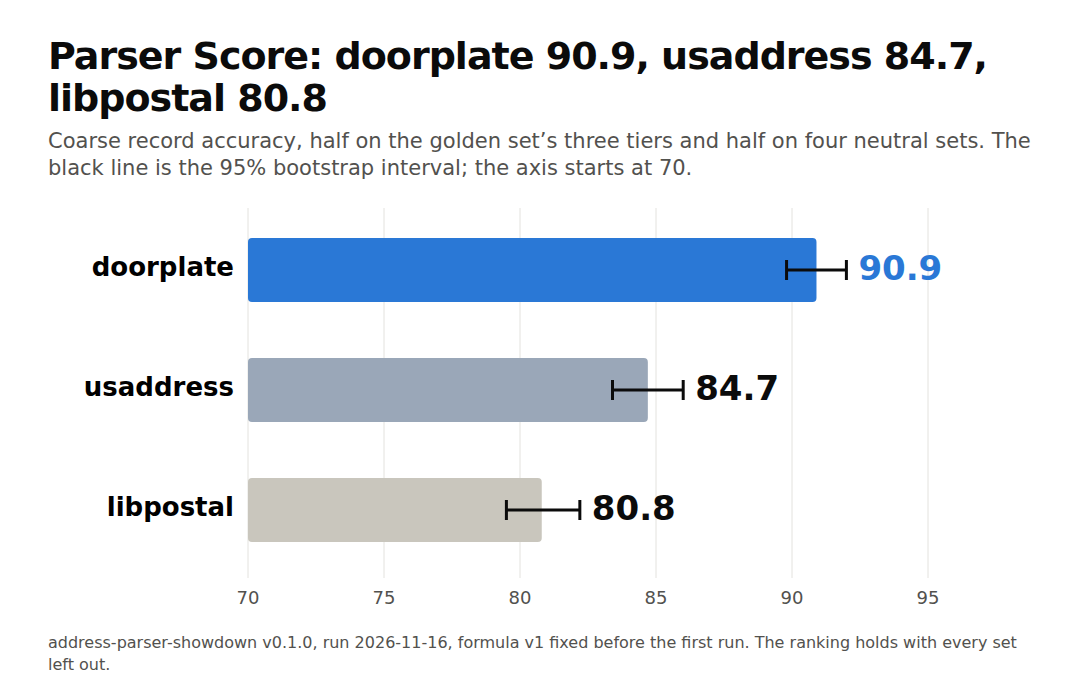
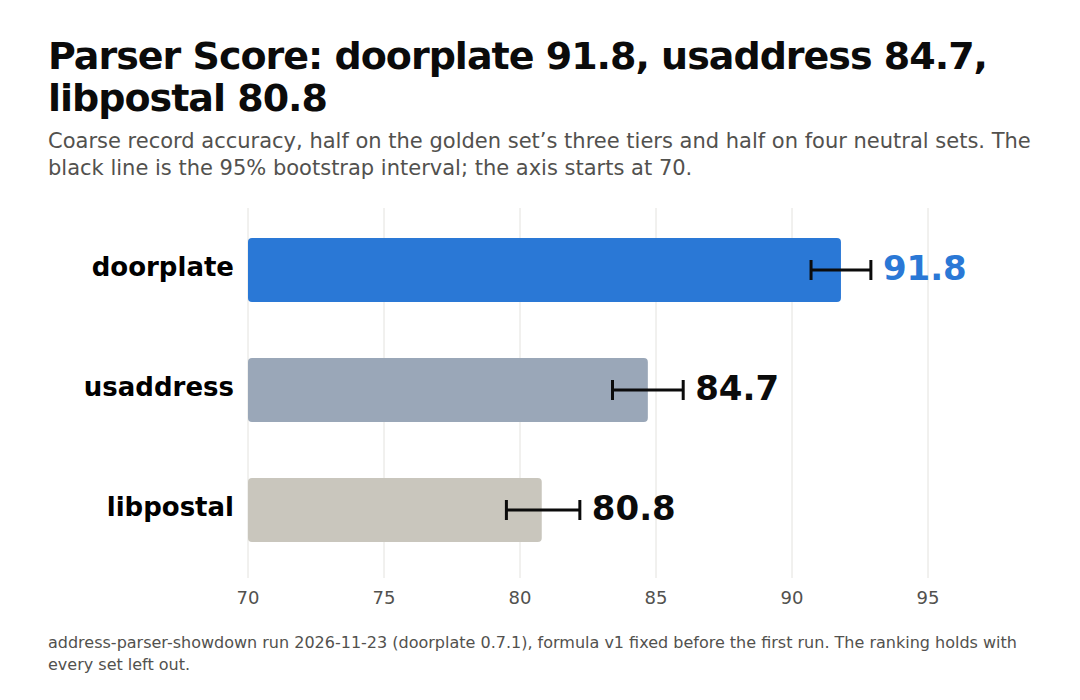
Showdown graphics: figures from the 2026-11-23 run, and a release history chart
Score, parts and speed graphics now use the second pinned run (doorplate
0.7.1). New history graphic: Parser Score and speed per release from
address-parser-showdown runs/doorplate-releases. make.py copies to
site/assets only with --assets, so the published post keeps its images.

diff --git a/site/_social/showdown/parts.html b/site/_social/showdown/parts.html
@@ -8,5 +8,5 @@ h1{font-size:38px;font-weight:800;letter-spacing:-1px;line-height:1.1}
 .leg{display:flex;gap:22px;font-size:19px;margin-bottom:10px}.leg i{display:inline-block;width:16px;height:16px;border-radius:3px;margin-right:7px;vertical-align:-2px}
 text{font-family:"DejaVu Sans","Helvetica Neue",Arial,sans-serif}body{width:1080px;height:1004px}</style></head>
 <body>
-<h1>Record accuracy on every scored part</h1><div class="sub">A record is right when every field the gold has matches in span and label. Every set that goes into the score is shown, nothing left out.</div><div class="leg"><span><i style="background:#2a78d6"></i>doorplate</span><span><i style="background:#9aa7b8"></i>usaddress</span><span><i style="background:#c9c6bd"></i>libpostal</span></div><svg width="984" height="824" xmlns="http://www.w3.org/2000/svg"><line x1="320.0" x2="320.0" y1="0" y2="794" stroke="#e3e2de"/><text x="320.0" y="816" text-anchor="middle" font-size="16" fill="#52514e">0%</text><line x1="465.0" x2="465.0" y1="0" y2="794" stroke="#e3e2de"/><text x="465.0" y="816" text-anchor="middle" font-size="16" fill="#52514e">25%</text><line x1="610.0" x2="610.0" y1="0" y2="794" stroke="#e3e2de"/><text x="610.0" y="816" text-anchor="middle" font-size="16" fill="#52514e">50%</text><line x1="755.0" x2="755.0" y1="0" y2="794" stroke="#e3e2de"/><text x="755.0" y="816" text-anchor="middle" font-size="16" fill="#52514e">75%</text><line x1="900.0" x2="900.0" y1="0" y2="794" stroke="#e3e2de"/><text x="900.0" y="816" text-anchor="middle" font-size="16" fill="#52514e">100%</text><text x="308" y="58" text-anchor="end" font-size="19" font-weight="700">Golden: normal (1,568)</text><rect x="320" y="8" width="551.0" height="26" rx="3" fill="#2a78d6"/><text x="879.0" y="28" font-size="17" font-weight="800">95.0</text><rect x="320" y="38" width="542.88" height="26" rx="3" fill="#9aa7b8"/><text x="870.88" y="58" font-size="17" font-weight="500">93.6</text><rect x="320" y="68" width="532.4399999999999" height="26" rx="3" fill="#c9c6bd"/><text x="860.4399999999999" y="88" font-size="17" font-weight="500">91.8</text><text x="308" y="170" text-anchor="end" font-size="19" font-weight="700">Golden: hard (556)</text><rect x="320" y="120" width="528.96" height="26" rx="3" fill="#2a78d6"/><text x="856.96" y="140" font-size="17" font-weight="800">91.2</text><rect x="320" y="150" width="513.3" height="26" rx="3" fill="#9aa7b8"/><text x="841.3" y="170" font-size="17" font-weight="500">88.5</text><rect x="320" y="180" width="411.22" height="26" rx="3" fill="#c9c6bd"/><text x="739.22" y="200" font-size="17" font-weight="500">70.9</text><text x="308" y="282" text-anchor="end" font-size="19" font-weight="700">Golden: nightmare (226)</text><rect x="320" y="232" width="400.20000000000005" height="26" rx="3" fill="#2a78d6"/><text x="728.2" y="252" font-size="17" font-weight="800">69.0</text><rect x="320" y="262" width="297.53999999999996" height="26" rx="3" fill="#9aa7b8"/><text x="625.54" y="282" font-size="17" font-weight="500">51.3</text><rect x="320" y="292" width="313.20000000000005" height="26" rx="3" fill="#c9c6bd"/><text x="641.2" y="312" font-size="17" font-weight="500">54.0</text><text x="308" y="394" text-anchor="end" font-size="19" font-weight="700">Suite: natural (16,001)</text><rect x="320" y="344" width="571.88" height="26" rx="3" fill="#2a78d6"/><text x="899.88" y="364" font-size="17" font-weight="800">98.6</text><rect x="320" y="374" width="559.6999999999999" height="26" rx="3" fill="#9aa7b8"/><text x="887.6999999999999" y="394" font-size="17" font-weight="500">96.5</text><rect x="320" y="404" width="551.0" height="26" rx="3" fill="#c9c6bd"/><text x="879.0" y="424" font-size="17" font-weight="500">95.0</text><text x="308" y="506" text-anchor="end" font-size="19" font-weight="700">Suite: hand (1,000)</text><rect x="320" y="456" width="555.64" height="26" rx="3" fill="#2a78d6"/><text x="883.64" y="476" font-size="17" font-weight="800">95.8</text><rect x="320" y="486" width="528.38" height="26" rx="3" fill="#9aa7b8"/><text x="856.38" y="506" font-size="17" font-weight="500">91.1</text><rect x="320" y="516" width="487.20000000000005" height="26" rx="3" fill="#c9c6bd"/><text x="815.2" y="536" font-size="17" font-weight="500">84.0</text><text x="308" y="618" text-anchor="end" font-size="19" font-weight="700">Senzing US: osm (2,172)</text><rect x="320" y="568" width="568.98" height="26" rx="3" fill="#2a78d6"/><text x="896.98" y="588" font-size="17" font-weight="800">98.1</text><rect x="320" y="598" width="525.4799999999999" height="26" rx="3" fill="#9aa7b8"/><text x="853.4799999999999" y="618" font-size="17" font-weight="500">90.6</text><rect x="320" y="628" width="573.04" height="26" rx="3" fill="#c9c6bd"/><text x="901.04" y="648" font-size="17" font-weight="500">98.8</text><text x="308" y="730" text-anchor="end" font-size="19" font-weight="700">Geocode dev (60,522)</text><rect x="320" y="680" width="547.52" height="26" rx="3" fill="#2a78d6"/><text x="875.52" y="700" font-size="17" font-weight="800">94.4</text><rect x="320" y="710" width="512.72" height="26" rx="3" fill="#9aa7b8"/><text x="840.72" y="730" font-size="17" font-weight="500">88.4</text><rect x="320" y="740" width="463.4200000000001" height="26" rx="3" fill="#c9c6bd"/><text x="791.4200000000001" y="760" font-size="17" font-weight="500">79.9</text></svg>
+<h1>Record accuracy on every scored part</h1><div class="sub">A record is right when every field the gold has matches in span and label. Every set that goes into the score is shown, nothing left out.</div><div class="leg"><span><i style="background:#2a78d6"></i>doorplate</span><span><i style="background:#9aa7b8"></i>usaddress</span><span><i style="background:#c9c6bd"></i>libpostal</span></div><svg width="984" height="824" xmlns="http://www.w3.org/2000/svg"><line x1="320.0" x2="320.0" y1="0" y2="794" stroke="#e3e2de"/><text x="320.0" y="816" text-anchor="middle" font-size="16" fill="#52514e">0%</text><line x1="465.0" x2="465.0" y1="0" y2="794" stroke="#e3e2de"/><text x="465.0" y="816" text-anchor="middle" font-size="16" fill="#52514e">25%</text><line x1="610.0" x2="610.0" y1="0" y2="794" stroke="#e3e2de"/><text x="610.0" y="816" text-anchor="middle" font-size="16" fill="#52514e">50%</text><line x1="755.0" x2="755.0" y1="0" y2="794" stroke="#e3e2de"/><text x="755.0" y="816" text-anchor="middle" font-size="16" fill="#52514e">75%</text><line x1="900.0" x2="900.0" y1="0" y2="794" stroke="#e3e2de"/><text x="900.0" y="816" text-anchor="middle" font-size="16" fill="#52514e">100%</text><text x="308" y="58" text-anchor="end" font-size="19" font-weight="700">Golden: normal (1,568)</text><rect x="320" y="8" width="550.4200000000001" height="26" rx="3" fill="#2a78d6"/><text x="878.4200000000001" y="28" font-size="17" font-weight="800">94.9</text><rect x="320" y="38" width="542.88" height="26" rx="3" fill="#9aa7b8"/><text x="870.88" y="58" font-size="17" font-weight="500">93.6</text><rect x="320" y="68" width="532.4399999999999" height="26" rx="3" fill="#c9c6bd"/><text x="860.4399999999999" y="88" font-size="17" font-weight="500">91.8</text><text x="308" y="170" text-anchor="end" font-size="19" font-weight="700">Golden: hard (556)</text><rect x="320" y="120" width="535.9200000000001" height="26" rx="3" fill="#2a78d6"/><text x="863.9200000000001" y="140" font-size="17" font-weight="800">92.4</text><rect x="320" y="150" width="513.3" height="26" rx="3" fill="#9aa7b8"/><text x="841.3" y="170" font-size="17" font-weight="500">88.5</text><rect x="320" y="180" width="411.22" height="26" rx="3" fill="#c9c6bd"/><text x="739.22" y="200" font-size="17" font-weight="500">70.9</text><text x="308" y="282" text-anchor="end" font-size="19" font-weight="700">Golden: nightmare (226)</text><rect x="320" y="232" width="423.4" height="26" rx="3" fill="#2a78d6"/><text x="751.4" y="252" font-size="17" font-weight="800">73.0</text><rect x="320" y="262" width="297.53999999999996" height="26" rx="3" fill="#9aa7b8"/><text x="625.54" y="282" font-size="17" font-weight="500">51.3</text><rect x="320" y="292" width="313.20000000000005" height="26" rx="3" fill="#c9c6bd"/><text x="641.2" y="312" font-size="17" font-weight="500">54.0</text><text x="308" y="394" text-anchor="end" font-size="19" font-weight="700">Suite: natural (16,001)</text><rect x="320" y="344" width="571.88" height="26" rx="3" fill="#2a78d6"/><text x="899.88" y="364" font-size="17" font-weight="800">98.6</text><rect x="320" y="374" width="559.6999999999999" height="26" rx="3" fill="#9aa7b8"/><text x="887.6999999999999" y="394" font-size="17" font-weight="500">96.5</text><rect x="320" y="404" width="551.0" height="26" rx="3" fill="#c9c6bd"/><text x="879.0" y="424" font-size="17" font-weight="500">95.0</text><text x="308" y="506" text-anchor="end" font-size="19" font-weight="700">Suite: hand (1,000)</text><rect x="320" y="456" width="558.54" height="26" rx="3" fill="#2a78d6"/><text x="886.54" y="476" font-size="17" font-weight="800">96.3</text><rect x="320" y="486" width="528.38" height="26" rx="3" fill="#9aa7b8"/><text x="856.38" y="506" font-size="17" font-weight="500">91.1</text><rect x="320" y="516" width="487.20000000000005" height="26" rx="3" fill="#c9c6bd"/><text x="815.2" y="536" font-size="17" font-weight="500">84.0</text><text x="308" y="618" text-anchor="end" font-size="19" font-weight="700">Senzing US: osm (2,172)</text><rect x="320" y="568" width="568.98" height="26" rx="3" fill="#2a78d6"/><text x="896.98" y="588" font-size="17" font-weight="800">98.1</text><rect x="320" y="598" width="525.4799999999999" height="26" rx="3" fill="#9aa7b8"/><text x="853.4799999999999" y="618" font-size="17" font-weight="500">90.6</text><rect x="320" y="628" width="573.04" height="26" rx="3" fill="#c9c6bd"/><text x="901.04" y="648" font-size="17" font-weight="500">98.8</text><text x="308" y="730" text-anchor="end" font-size="19" font-weight="700">Geocode dev (60,522)</text><rect x="320" y="680" width="547.52" height="26" rx="3" fill="#2a78d6"/><text x="875.52" y="700" font-size="17" font-weight="800">94.4</text><rect x="320" y="710" width="512.72" height="26" rx="3" fill="#9aa7b8"/><text x="840.72" y="730" font-size="17" font-weight="500">88.4</text><rect x="320" y="740" width="463.4200000000001" height="26" rx="3" fill="#c9c6bd"/><text x="791.4200000000001" y="760" font-size="17" font-weight="500">79.9</text></svg>
 </body></html>

diff --git a/site/_social/showdown/speed.html b/site/_social/showdown/speed.html
@@ -8,5 +8,5 @@ h1{font-size:38px;font-weight:800;letter-spacing:-1px;line-height:1.1}
 .leg{display:flex;gap:22px;font-size:19px;margin-bottom:10px}.leg i{display:inline-block;width:16px;height:16px;border-radius:3px;margin-right:7px;vertical-align:-2px}
 text{font-family:"DejaVu Sans","Helvetica Neue",Arial,sans-serif}body{width:1080px;height:560px}</style></head>
 <body>
-<h1>Five to eight times faster, in 27 MB</h1><div class="sub">100,000 strings, median of 5 passes, i9-9900K under WSL2. Speed is never part of the Parser Score.</div><div style="display:flex;gap:12px"><svg width="320" height="330" xmlns="http://www.w3.org/2000/svg"><text x="0" y="22" font-size="17" font-weight="700">Strings per second (1 process)</text><rect x="14" y="70.0" width="84" height="224.0" rx="4" fill="#2a78d6"/><text x="56" y="62.0" text-anchor="middle" font-size="18" font-weight="800">72,028</text><text x="56" y="318" text-anchor="middle" font-size="15" fill="#52514e">doorplate</text><rect x="114" y="266.16015993780195" width="84" height="27.839840062198036" rx="4" fill="#9aa7b8"/><text x="156" y="258.16015993780195" text-anchor="middle" font-size="18" font-weight="800">8,952</text><text x="156" y="318" text-anchor="middle" font-size="15" fill="#52514e">usaddress</text><rect x="214" y="248.6669628477814" width="84" height="45.33303715221858" rx="4" fill="#c9c6bd"/><text x="256" y="240.6669628477814" text-anchor="middle" font-size="18" font-weight="800">14,577</text><text x="256" y="318" text-anchor="middle" font-size="15" fill="#52514e">libpostal</text></svg><svg width="320" height="330" xmlns="http://www.w3.org/2000/svg"><text x="0" y="22" font-size="17" font-weight="700">Memory after loading (MB)</text><rect x="14" y="291.9553752535497" width="84" height="2.0446247464503045" rx="4" fill="#2a78d6"/><text x="56" y="283.9553752535497" text-anchor="middle" font-size="18" font-weight="800">27</text><text x="56" y="318" text-anchor="middle" font-size="15" fill="#52514e">doorplate</text><rect x="114" y="291.9553752535497" width="84" height="2.0446247464503045" rx="4" fill="#9aa7b8"/><text x="156" y="283.9553752535497" text-anchor="middle" font-size="18" font-weight="800">27</text><text x="156" y="318" text-anchor="middle" font-size="15" fill="#52514e">usaddress</text><rect x="214" y="70.0" width="84" height="224.0" rx="4" fill="#c9c6bd"/><text x="256" y="62.0" text-anchor="middle" font-size="18" font-weight="800">2,958</text><text x="256" y="318" text-anchor="middle" font-size="15" fill="#52514e">libpostal</text></svg><svg width="320" height="330" xmlns="http://www.w3.org/2000/svg"><text x="0" y="22" font-size="17" font-weight="700">Install size (MB)</text><rect x="14" y="292" width="84" height="2" rx="4" fill="#2a78d6"/><text x="56" y="284" text-anchor="middle" font-size="18" font-weight="800">4.9</text><text x="56" y="318" text-anchor="middle" font-size="15" fill="#52514e">doorplate</text><rect x="114" y="292" width="84" height="2" rx="4" fill="#9aa7b8"/><text x="156" y="284" text-anchor="middle" font-size="18" font-weight="800">4.8</text><text x="156" y="318" text-anchor="middle" font-size="15" fill="#52514e">usaddress</text><rect x="214" y="69.99999999999997" width="84" height="224.00000000000003" rx="4" fill="#c9c6bd"/><text x="256" y="61.99999999999997" text-anchor="middle" font-size="18" font-weight="800">2,993.1</text><text x="256" y="318" text-anchor="middle" font-size="15" fill="#52514e">libpostal</text></svg></div><div class="foot">With 4 processes: 223,510 / 28,054 / 43,951 strings per second. Load time: 0.003 s / 0.012 s / 3.48 s.</div>
+<h1>Seven to thirteen times faster, in 25 MB</h1><div class="sub">100,000 strings, median of 5 passes, i9-9900K under WSL2. Speed is never part of the Parser Score.</div><div style="display:flex;gap:12px"><svg width="320" height="330" xmlns="http://www.w3.org/2000/svg"><text x="0" y="22" font-size="17" font-weight="700">Strings per second (1 process)</text><rect x="14" y="70.0" width="84" height="224.0" rx="4" fill="#2a78d6"/><text x="56" y="62.0" text-anchor="middle" font-size="18" font-weight="800">116,534</text><text x="56" y="318" text-anchor="middle" font-size="15" fill="#52514e">doorplate</text><rect x="114" y="276.80220364872054" width="84" height="17.197796351279454" rx="4" fill="#9aa7b8"/><text x="156" y="268.80220364872054" text-anchor="middle" font-size="18" font-weight="800">8,947</text><text x="156" y="318" text-anchor="middle" font-size="15" fill="#52514e">usaddress</text><rect x="214" y="264.08117802529733" width="84" height="29.918821974702663" rx="4" fill="#c9c6bd"/><text x="256" y="256.08117802529733" text-anchor="middle" font-size="18" font-weight="800">15,565</text><text x="256" y="318" text-anchor="middle" font-size="15" fill="#52514e">libpostal</text></svg><svg width="320" height="330" xmlns="http://www.w3.org/2000/svg"><text x="0" y="22" font-size="17" font-weight="700">Memory after loading (MB)</text><rect x="14" y="292" width="84" height="2" rx="4" fill="#2a78d6"/><text x="56" y="284" text-anchor="middle" font-size="18" font-weight="800">25</text><text x="56" y="318" text-anchor="middle" font-size="15" fill="#52514e">doorplate</text><rect x="114" y="291.9553752535497" width="84" height="2.0446247464503045" rx="4" fill="#9aa7b8"/><text x="156" y="283.9553752535497" text-anchor="middle" font-size="18" font-weight="800">27</text><text x="156" y="318" text-anchor="middle" font-size="15" fill="#52514e">usaddress</text><rect x="214" y="70.0" width="84" height="224.0" rx="4" fill="#c9c6bd"/><text x="256" y="62.0" text-anchor="middle" font-size="18" font-weight="800">2,958</text><text x="256" y="318" text-anchor="middle" font-size="15" fill="#52514e">libpostal</text></svg><svg width="320" height="330" xmlns="http://www.w3.org/2000/svg"><text x="0" y="22" font-size="17" font-weight="700">Install size (MB)</text><rect x="14" y="292" width="84" height="2" rx="4" fill="#2a78d6"/><text x="56" y="284" text-anchor="middle" font-size="18" font-weight="800">6.5</text><text x="56" y="318" text-anchor="middle" font-size="15" fill="#52514e">doorplate</text><rect x="114" y="292" width="84" height="2" rx="4" fill="#9aa7b8"/><text x="156" y="284" text-anchor="middle" font-size="18" font-weight="800">4.8</text><text x="156" y="318" text-anchor="middle" font-size="15" fill="#52514e">usaddress</text><rect x="214" y="69.99999999999997" width="84" height="224.00000000000003" rx="4" fill="#c9c6bd"/><text x="256" y="61.99999999999997" text-anchor="middle" font-size="18" font-weight="800">2,993.1</text><text x="256" y="318" text-anchor="middle" font-size="15" fill="#52514e">libpostal</text></svg></div><div class="foot">With 4 processes: 360,696 / 27,999 / 45,837 strings per second. Load time: 0.001 s / 0.011 s / 4.325 s.</div>
 </body></html>

diff --git a/site/_social/showdown/score.html b/site/_social/showdown/score.html
@@ -8,5 +8,5 @@ h1{font-size:38px;font-weight:800;letter-spacing:-1px;line-height:1.1}
 .leg{display:flex;gap:22px;font-size:19px;margin-bottom:10px}.leg i{display:inline-block;width:16px;height:16px;border-radius:3px;margin-right:7px;vertical-align:-2px}
 text{font-family:"DejaVu Sans","Helvetica Neue",Arial,sans-serif}body{width:1080px;height:700px}</style></head>
 <body>
-<h1>Parser Score: doorplate 90.9, usaddress 84.7, libpostal 80.8</h1><div class="sub">Coarse record accuracy, half on the golden set&rsquo;s three tiers and half on four neutral sets. The black line is the 95% bootstrap interval; the axis starts at 70.</div><svg width="984" height="420" xmlns="http://www.w3.org/2000/svg"><line x1="200.0" x2="200.0" y1="10" y2="380" stroke="#e3e2de"/><text x="200.0" y="406" text-anchor="middle" font-size="18" fill="#52514e">70</text><line x1="336.0" x2="336.0" y1="10" y2="380" stroke="#e3e2de"/><text x="336.0" y="406" text-anchor="middle" font-size="18" fill="#52514e">75</text><line x1="472.0" x2="472.0" y1="10" y2="380" stroke="#e3e2de"/><text x="472.0" y="406" text-anchor="middle" font-size="18" fill="#52514e">80</text><line x1="608.0" x2="608.0" y1="10" y2="380" stroke="#e3e2de"/><text x="608.0" y="406" text-anchor="middle" font-size="18" fill="#52514e">85</text><line x1="744.0" x2="744.0" y1="10" y2="380" stroke="#e3e2de"/><text x="744.0" y="406" text-anchor="middle" font-size="18" fill="#52514e">90</text><line x1="880.0" x2="880.0" y1="10" y2="380" stroke="#e3e2de"/><text x="880.0" y="406" text-anchor="middle" font-size="18" fill="#52514e">95</text><text x="186" y="78" text-anchor="end" font-size="26" font-weight="700">doorplate</text><rect x="200" y="40" width="568.4800000000001" height="64" rx="4" fill="#2a78d6"/><line x1="738.56" x2="798.4" y1="72" y2="72" stroke="#0b0b0b" stroke-width="3"/><line x1="738.56" x2="738.56" y1="62" y2="82" stroke="#0b0b0b" stroke-width="3"/><line x1="798.4" x2="798.4" y1="62" y2="82" stroke="#0b0b0b" stroke-width="3"/><text x="810.4" y="82" font-size="34" font-weight="800" fill="#2a78d6">90.9</text><text x="186" y="198" text-anchor="end" font-size="26" font-weight="700">usaddress</text><rect x="200" y="160" width="399.84000000000003" height="64" rx="4" fill="#9aa7b8"/><line x1="564.4800000000002" x2="635.2" y1="192" y2="192" stroke="#0b0b0b" stroke-width="3"/><line x1="564.4800000000002" x2="564.4800000000002" y1="182" y2="202" stroke="#0b0b0b" stroke-width="3"/><line x1="635.2" x2="635.2" y1="182" y2="202" stroke="#0b0b0b" stroke-width="3"/><text x="647.2" y="202" font-size="34" font-weight="800" fill="#0b0b0b">84.7</text><text x="186" y="318" text-anchor="end" font-size="26" font-weight="700">libpostal</text><rect x="200" y="280" width="293.75999999999993" height="64" rx="4" fill="#c9c6bd"/><line x1="458.4" x2="531.8400000000001" y1="312" y2="312" stroke="#0b0b0b" stroke-width="3"/><line x1="458.4" x2="458.4" y1="302" y2="322" stroke="#0b0b0b" stroke-width="3"/><line x1="531.8400000000001" x2="531.8400000000001" y1="302" y2="322" stroke="#0b0b0b" stroke-width="3"/><text x="543.8400000000001" y="322" font-size="34" font-weight="800" fill="#0b0b0b">80.8</text></svg><div class="foot">address-parser-showdown v0.1.0, run 2026-11-16, formula v1 fixed before the first run. The ranking holds with every set left out.</div>
+<h1>Parser Score: doorplate 91.8, usaddress 84.7, libpostal 80.8</h1><div class="sub">Coarse record accuracy, half on the golden set&rsquo;s three tiers and half on four neutral sets. The black line is the 95% bootstrap interval; the axis starts at 70.</div><svg width="984" height="420" xmlns="http://www.w3.org/2000/svg"><line x1="200.0" x2="200.0" y1="10" y2="380" stroke="#e3e2de"/><text x="200.0" y="406" text-anchor="middle" font-size="18" fill="#52514e">70</text><line x1="336.0" x2="336.0" y1="10" y2="380" stroke="#e3e2de"/><text x="336.0" y="406" text-anchor="middle" font-size="18" fill="#52514e">75</text><line x1="472.0" x2="472.0" y1="10" y2="380" stroke="#e3e2de"/><text x="472.0" y="406" text-anchor="middle" font-size="18" fill="#52514e">80</text><line x1="608.0" x2="608.0" y1="10" y2="380" stroke="#e3e2de"/><text x="608.0" y="406" text-anchor="middle" font-size="18" fill="#52514e">85</text><line x1="744.0" x2="744.0" y1="10" y2="380" stroke="#e3e2de"/><text x="744.0" y="406" text-anchor="middle" font-size="18" fill="#52514e">90</text><line x1="880.0" x2="880.0" y1="10" y2="380" stroke="#e3e2de"/><text x="880.0" y="406" text-anchor="middle" font-size="18" fill="#52514e">95</text><text x="186" y="78" text-anchor="end" font-size="26" font-weight="700">doorplate</text><rect x="200" y="40" width="592.9599999999999" height="64" rx="4" fill="#2a78d6"/><line x1="763.0400000000001" x2="822.8800000000002" y1="72" y2="72" stroke="#0b0b0b" stroke-width="3"/><line x1="763.0400000000001" x2="763.0400000000001" y1="62" y2="82" stroke="#0b0b0b" stroke-width="3"/><line x1="822.8800000000002" x2="822.8800000000002" y1="62" y2="82" stroke="#0b0b0b" stroke-width="3"/><text x="834.8800000000002" y="82" font-size="34" font-weight="800" fill="#2a78d6">91.8</text><text x="186" y="198" text-anchor="end" font-size="26" font-weight="700">usaddress</text><rect x="200" y="160" width="399.84000000000003" height="64" rx="4" fill="#9aa7b8"/><line x1="564.4800000000002" x2="635.2" y1="192" y2="192" stroke="#0b0b0b" stroke-width="3"/><line x1="564.4800000000002" x2="564.4800000000002" y1="182" y2="202" stroke="#0b0b0b" stroke-width="3"/><line x1="635.2" x2="635.2" y1="182" y2="202" stroke="#0b0b0b" stroke-width="3"/><text x="647.2" y="202" font-size="34" font-weight="800" fill="#0b0b0b">84.7</text><text x="186" y="318" text-anchor="end" font-size="26" font-weight="700">libpostal</text><rect x="200" y="280" width="293.75999999999993" height="64" rx="4" fill="#c9c6bd"/><line x1="458.4" x2="531.8400000000001" y1="312" y2="312" stroke="#0b0b0b" stroke-width="3"/><line x1="458.4" x2="458.4" y1="302" y2="322" stroke="#0b0b0b" stroke-width="3"/><line x1="531.8400000000001" x2="531.8400000000001" y1="302" y2="322" stroke="#0b0b0b" stroke-width="3"/><text x="543.8400000000001" y="322" font-size="34" font-weight="800" fill="#0b0b0b">80.8</text></svg><div class="foot">address-parser-showdown run 2026-11-23 (doorplate 0.7.1), formula v1 fixed before the first run. The ranking holds with every set left out.</div>
 </body></html>

diff --git a/site/_social/showdown/history.html b/site/_social/showdown/history.html
@@ -1,0 +1,12 @@
+<!doctype html>
+<html lang="en"><head><meta charset="utf-8"><title>doorplate releases</title>
+<style>/* Generated by make.py; edit the data there. */*{box-sizing:border-box;margin:0;padding:0}html,body{background:#fff}
+body{font-family:"DejaVu Sans","Helvetica Neue",Arial,sans-serif;color:#0b0b0b;overflow:hidden;padding:36px 48px 24px}
+h1{font-size:38px;font-weight:800;letter-spacing:-1px;line-height:1.1}
+.sub{font-size:21px;color:#52514e;margin:8px 0 16px;line-height:1.3}
+.foot{font-size:16px;color:#52514e;margin-top:10px;line-height:1.35}
+.leg{display:flex;gap:22px;font-size:19px;margin-bottom:10px}.leg i{display:inline-block;width:16px;height:16px;border-radius:3px;margin-right:7px;vertical-align:-2px}
+text{font-family:"DejaVu Sans","Helvetica Neue",Arial,sans-serif}body{width:1080px;height:720px}</style></head>
+<body>
+<h1>Accuracy and speed, release by release</h1><div class="sub">Parser Score rose from 87.3 to 91.8 and speed from 31,433 to 113,770 strings per second, 0.1.0 to 0.7.1.</div><div class="leg"><span><i style="background:#2a78d6"></i>Parser Score (left axis)</span><span><i style="background:#d9731a"></i>Strings per second, 1 process (right axis)</span></div><svg width="984" height="440" xmlns="http://www.w3.org/2000/svg"><line x1="90" x2="890" y1="380.0" y2="380.0" stroke="#e3e2de"/><text x="80" y="386.0" text-anchor="end" font-size="16" fill="#2a78d6">80</text><line x1="90" x2="890" y1="290.0" y2="290.0" stroke="#e3e2de"/><text x="80" y="296.0" text-anchor="end" font-size="16" fill="#2a78d6">85</text><line x1="90" x2="890" y1="200.0" y2="200.0" stroke="#e3e2de"/><text x="80" y="206.0" text-anchor="end" font-size="16" fill="#2a78d6">90</text><line x1="90" x2="890" y1="110.0" y2="110.0" stroke="#e3e2de"/><text x="80" y="116.0" text-anchor="end" font-size="16" fill="#2a78d6">95</text><line x1="90" x2="890" y1="20.0" y2="20.0" stroke="#e3e2de"/><text x="80" y="26.0" text-anchor="end" font-size="16" fill="#2a78d6">100</text><text x="904" y="386.0" font-size="16" fill="#d9731a">0k</text><text x="904" y="296.0" font-size="16" fill="#d9731a">30k</text><text x="904" y="206.0" font-size="16" fill="#d9731a">60k</text><text x="904" y="116.0" font-size="16" fill="#d9731a">90k</text><text x="904" y="26.0" font-size="16" fill="#d9731a">120k</text><text x="90.0" y="410" text-anchor="middle" font-size="18" fill="#52514e">0.1.0</text><text x="204.28571428571428" y="410" text-anchor="middle" font-size="18" fill="#52514e">0.2.0</text><text x="318.57142857142856" y="410" text-anchor="middle" font-size="18" fill="#52514e">0.3.1</text><text x="432.85714285714283" y="410" text-anchor="middle" font-size="18" fill="#52514e">0.4.1</text><text x="547.1428571428571" y="410" text-anchor="middle" font-size="18" fill="#52514e">0.5.1</text><text x="661.4285714285714" y="410" text-anchor="middle" font-size="18" fill="#52514e">0.6.2</text><text x="775.7142857142857" y="410" text-anchor="middle" font-size="18" fill="#52514e">0.7.0</text><text x="890.0" y="410" text-anchor="middle" font-size="18" fill="#52514e">0.7.1</text><polyline points="90.0,248.60000000000005 204.28571428571428,248.60000000000005 318.57142857142856,243.2000000000001 432.85714285714283,223.39999999999995 547.1428571428571,210.7999999999999 661.4285714285714,183.7999999999999 775.7142857142857,167.60000000000005 890.0,167.60000000000005" fill="none" stroke="#2a78d6" stroke-width="5" stroke-linejoin="round"/><circle cx="90.0" cy="248.60000000000005" r="6" fill="#2a78d6"/><circle cx="204.28571428571428" cy="248.60000000000005" r="6" fill="#2a78d6"/><circle cx="318.57142857142856" cy="243.2000000000001" r="6" fill="#2a78d6"/><circle cx="432.85714285714283" cy="223.39999999999995" r="6" fill="#2a78d6"/><circle cx="547.1428571428571" cy="210.7999999999999" r="6" fill="#2a78d6"/><circle cx="661.4285714285714" cy="183.7999999999999" r="6" fill="#2a78d6"/><circle cx="775.7142857142857" cy="167.60000000000005" r="6" fill="#2a78d6"/><circle cx="890.0" cy="167.60000000000005" r="6" fill="#2a78d6"/><polyline points="90.0,285.701 204.28571428571428,260.79200000000003 318.57142857142856,262.175 432.85714285714283,256.571 547.1428571428571,158.168 661.4285714285714,40.05500000000001 775.7142857142857,62.50100000000003 890.0,38.69" fill="none" stroke="#d9731a" stroke-width="5" stroke-linejoin="round"/><circle cx="90.0" cy="285.701" r="6" fill="#d9731a"/><circle cx="204.28571428571428" cy="260.79200000000003" r="6" fill="#d9731a"/><circle cx="318.57142857142856" cy="262.175" r="6" fill="#d9731a"/><circle cx="432.85714285714283" cy="256.571" r="6" fill="#d9731a"/><circle cx="547.1428571428571" cy="158.168" r="6" fill="#d9731a"/><circle cx="661.4285714285714" cy="40.05500000000001" r="6" fill="#d9731a"/><circle cx="775.7142857142857" cy="62.50100000000003" r="6" fill="#d9731a"/><circle cx="890.0" cy="38.69" r="6" fill="#d9731a"/><text x="124.0" y="232.60000000000005" text-anchor="middle" font-size="19" font-weight="800" fill="#2a78d6">87.3</text><text x="856.0" y="203.60000000000005" text-anchor="middle" font-size="19" font-weight="800" fill="#2a78d6">91.8</text><text x="130.0" y="319.701" text-anchor="middle" font-size="19" font-weight="800" fill="#d9731a">31,433</text><text x="850.0" y="20.689999999999998" text-anchor="middle" font-size="19" font-weight="800" fill="#d9731a">113,770</text></svg><div class="foot">Every release scored on the same gold and sets (2026-11-16); usaddress scores 84.7 and libpostal 80.8. Speed: one process, i9-9900K under WSL2; it varies 5 to 14% between runs. Source: address-parser-showdown, runs/doorplate-releases.</div>
+</body></html>

diff --git a/site/_social/showdown/make.py b/site/_social/showdown/make.py
@@ -3,10 +3,11 @@
     score.html  -> score.png   1080 x 760   Parser Score with 95% intervals (site/assets/showdown-score.png)
     parts.html  -> parts.png   1080 x 900   record accuracy per part          (site/assets/showdown-parts.png)
     speed.html  -> speed.png   1080 x 560   speed, memory, install size       (site/assets/showdown-speed.png)
+    history.html -> history.png 1080 x 720  Parser Score and speed by doorplate release (runs/doorplate-releases/releases.md)
 
-Every figure is copied from report/REPORT.md of address-parser-showdown (v0.1.0, run 2026-11-16, sections 7.2, 7.3, 8).
+Every figure is copied from report/REPORT.md of address-parser-showdown (run 2026-11-23, doorplate 0.7.1, sections 7.2, 7.3, 8).
     uv venv /tmp/pw && uv pip install -p /tmp/pw/bin/python playwright
-    /tmp/pw/bin/python make.py [path/to/chrome]
+    /tmp/pw/bin/python make.py [path/to/chrome] [--assets]
 """
 
 import pathlib, shutil, sys
@@ -20,26 +21,39 @@ FONT = '"DejaVu Sans","Helvetica Neue",Arial,sans-serif'
 
 # Report 7.2: score, low, high
 SCORE = {
-    "doorplate": (90.9, 89.8, 92.0),
+    "doorplate": (91.8, 90.7, 92.9),
     "usaddress": (84.7, 83.4, 86.0),
     "libpostal": (80.8, 79.5, 82.2),
 }
 # Report 7.3: coarse record accuracy (neutral and golden parts)
 PARTS = [
-    ("Golden: normal (1,568)", 95.0, 93.6, 91.8),
-    ("Golden: hard (556)", 91.2, 88.5, 70.9),
-    ("Golden: nightmare (226)", 69.0, 51.3, 54.0),
+    ("Golden: normal (1,568)", 94.9, 93.6, 91.8),
+    ("Golden: hard (556)", 92.4, 88.5, 70.9),
+    ("Golden: nightmare (226)", 73.0, 51.3, 54.0),
     ("Suite: natural (16,001)", 98.6, 96.5, 95.0),
-    ("Suite: hand (1,000)", 95.8, 91.1, 84.0),
+    ("Suite: hand (1,000)", 96.3, 91.1, 84.0),
     ("Senzing US: osm (2,172)", 98.1, 90.6, 98.8),
     ("Geocode dev (60,522)", 94.4, 88.4, 79.9),
 ]
 # Report 8: one process, strings per second; memory MB after loading; install MB
 SPEED = [
-    ("Strings per second (1 process)", (72028, 8952, 14577), "{:,.0f}"),
-    ("Memory after loading (MB)", (27, 27, 2958), "{:,.0f}"),
-    ("Install size (MB)", (4.9, 4.8, 2993.1), "{:,.1f}"),
+    ("Strings per second (1 process)", (116534, 8947, 15565), "{:,.0f}"),
+    ("Memory after loading (MB)", (25, 27, 2958), "{:,.0f}"),
+    ("Install size (MB)", (6.5, 4.8, 2993.1), "{:,.1f}"),
 ]
+
+# releases.md: release, Parser Score, strings per second (1 process); all on the 2026-11-16 gold
+HISTORY = [
+    ("0.1.0", 87.3, 31433),
+    ("0.2.0", 87.3, 39736),
+    ("0.3.1", 87.6, 39275),
+    ("0.4.1", 88.7, 41143),
+    ("0.5.1", 89.4, 73944),
+    ("0.6.2", 90.9, 113315),
+    ("0.7.0", 91.8, 105833),
+    ("0.7.1", 91.8, 113770),
+]
+C_SCORE, C_SPEED = "#2a78d6", "#d9731a"
 
 CSS = f"""*{{box-sizing:border-box;margin:0;padding:0}}html,body{{background:#fff}}
 body{{font-family:{FONT};color:{INK};overflow:hidden;padding:36px 48px 24px}}
@@ -91,10 +105,10 @@ def score():
         )
     s.append("</svg>")
     body = (
-        f"<h1>Parser Score: doorplate 90.9, usaddress 84.7, libpostal 80.8</h1>"
+        f"<h1>Parser Score: doorplate 91.8, usaddress 84.7, libpostal 80.8</h1>"
         f'<div class="sub">Coarse record accuracy, half on the golden set&rsquo;s three tiers and half on four neutral sets. The black line is the 95% bootstrap interval; the axis starts at 70.</div>'
         + "".join(s)
-        + '<div class="foot">address-parser-showdown v0.1.0, run 2026-11-16, formula v1 fixed before the first run. The ranking holds with every set left out.</div>'
+        + '<div class="foot">address-parser-showdown run 2026-11-23 (doorplate 0.7.1), formula v1 fixed before the first run. The ranking holds with every set left out.</div>'
     )
     return page("Parser Score", 1080, 700, body)
 
@@ -154,12 +168,62 @@ def speed():
         g.append("</svg>")
         s.append("".join(g))
     body = (
-        "<h1>Five to eight times faster, in 27 MB</h1>"
+        "<h1>Seven to thirteen times faster, in 25 MB</h1>"
         '<div class="sub">100,000 strings, median of 5 passes, i9-9900K under WSL2. Speed is never part of the Parser Score.</div>'
         f'<div style="display:flex;gap:12px">{"".join(s)}</div>'
-        '<div class="foot">With 4 processes: 223,510 / 28,054 / 43,951 strings per second. Load time: 0.003 s / 0.012 s / 3.48 s.</div>'
+        '<div class="foot">With 4 processes: 360,696 / 27,999 / 45,837 strings per second. Load time: 0.001 s / 0.011 s / 4.325 s.</div>'
     )
     return page("Speed and size", 1080, 560, body)
+
+
+def history():
+    w, h = 984, 440
+    x0, x1, yt, yb = 90, 890, 20, 380
+    n = len(HISTORY)
+    X = lambda i: x0 + i * (x1 - x0) / (n - 1)
+    Ys = lambda v: yb - (v - 80) / (100 - 80) * (yb - yt)
+    Yv = lambda v: yb - v / 120000 * (yb - yt)
+    s = [f'<svg width="{w}" height="{h}" xmlns="http://www.w3.org/2000/svg">']
+    for t in range(80, 101, 5):
+        s.append(
+            f'<line x1="{x0}" x2="{x1}" y1="{Ys(t)}" y2="{Ys(t)}" stroke="{RULE}"/>'
+            f'<text x="{x0 - 10}" y="{Ys(t) + 6}" text-anchor="end" font-size="16" fill="{C_SCORE}">{t}</text>'
+        )
+    for t in range(0, 120001, 30000):
+        s.append(
+            f'<text x="{x1 + 14}" y="{Yv(t) + 6}" font-size="16" fill="{C_SPEED}">{t // 1000}k</text>'
+        )
+    for i, (r, sc, sp) in enumerate(HISTORY):
+        s.append(
+            f'<text x="{X(i)}" y="{yb + 30}" text-anchor="middle" font-size="18" fill="{INK2}">{r}</text>'
+        )
+    for key, Y, col, idx in (("score", Ys, C_SCORE, 1), ("speed", Yv, C_SPEED, 2)):
+        pts = " ".join(f"{X(i)},{Y(row[idx])}" for i, row in enumerate(HISTORY))
+        s.append(
+            f'<polyline points="{pts}" fill="none" stroke="{col}" stroke-width="5" stroke-linejoin="round"/>'
+        )
+        for i, row in enumerate(HISTORY):
+            s.append(f'<circle cx="{X(i)}" cy="{Y(row[idx])}" r="6" fill="{col}"/>')
+    # end labels
+    s.append(
+        f'<text x="{X(0) + 34}" y="{Ys(87.3) - 16}" text-anchor="middle" font-size="19" font-weight="800" fill="{C_SCORE}">87.3</text>'
+        f'<text x="{X(n-1) - 34}" y="{Ys(91.8) + 36}" text-anchor="middle" font-size="19" font-weight="800" fill="{C_SCORE}">91.8</text>'
+        f'<text x="{X(0) + 40}" y="{Yv(31433) + 34}" text-anchor="middle" font-size="19" font-weight="800" fill="{C_SPEED}">31,433</text>'
+        f'<text x="{X(n-1) - 40}" y="{Yv(113770) - 18}" text-anchor="middle" font-size="19" font-weight="800" fill="{C_SPEED}">113,770</text>'
+    )
+    s.append("</svg>")
+    leg = (
+        '<div class="leg">'
+        f'<span><i style="background:{C_SCORE}"></i>Parser Score (left axis)</span>'
+        f'<span><i style="background:{C_SPEED}"></i>Strings per second, 1 process (right axis)</span></div>'
+    )
+    body = (
+        "<h1>Accuracy and speed, release by release</h1>"
+        '<div class="sub">Parser Score rose from 87.3 to 91.8 and speed from 31,433 to 113,770 strings per second, 0.1.0 to 0.7.1.</div>'
+        + leg + "".join(s)
+        + '<div class="foot">Every release scored on the same gold and sets (2026-11-16); usaddress scores 84.7 and libpostal 80.8. Speed: one process, i9-9900K under WSL2; it varies 5 to 14% between runs. Source: address-parser-showdown, runs/doorplate-releases.</div>'
+    )
+    return page("doorplate releases", 1080, 720, body)
 
 
 def main():
@@ -167,7 +231,7 @@ def main():
 
     chrome = (
         sys.argv[1]
-        if len(sys.argv) > 1
+        if len(sys.argv) > 1 and not sys.argv[1].startswith("--")
         else str(
             pathlib.Path.home()
             / ".cache/ms-playwright/chromium-1243/chrome-linux64/chrome"
@@ -177,6 +241,7 @@ def main():
         ("score", score(), 1080, 700),
         ("parts", parts(), 1080, None),
         ("speed", speed(), 1080, 560),
+        ("history", history(), 1080, 720),
     ]
     with sync_playwright() as p:
         b = p.chromium.launch(executable_path=chrome)
@@ -193,7 +258,8 @@ def main():
                 path=str(HERE / f"{name}.png"),
                 clip={"x": 0, "y": 0, "width": w, "height": h},
             )
-            shutil.copy(HERE / f"{name}.png", ASSETS / f"showdown-{name}.png")
+            if "--assets" in sys.argv:  # overwrites the images the published post uses
+                shutil.copy(HERE / f"{name}.png", ASSETS / f"showdown-{name}.png")
         b.close()
 
 
